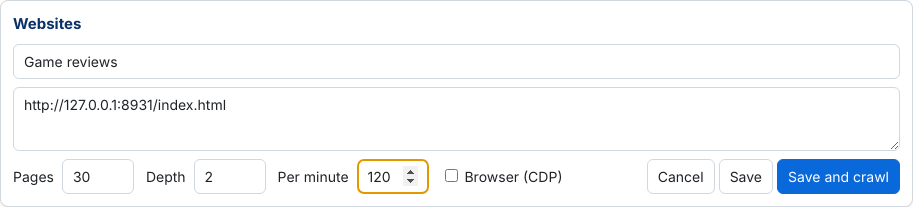
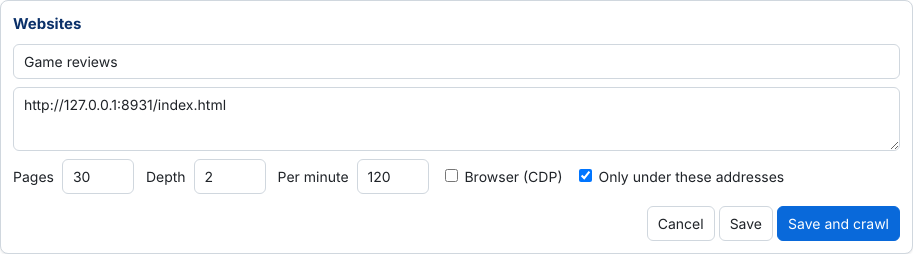
Crawler option to stay under the start addresses
The crawler already kept to the start sites (one host, other subdomains
excluded). "Only under these addresses" on a website also keeps it in
the start addresses' folders, like wget --no-parent: from
example.com/guides/ it follows /guides/... links only. Saved websites
get the new column on older databases.

Claude-Session: https://claude.ai/code/session_01K6iyxnxtYDs5kNr5qmfTjK

diff --git a/desktop/src/renderer/Websites.tsx b/desktop/src/renderer/Websites.tsx
@@ -9,9 +9,18 @@ type Draft = {
   max_depth: number;
   per_minute: number;
   use_browser: boolean;
+  only_under_start: boolean;
 };
 
-const NEW_SITE: Draft = { name: "", urls: "", max_pages: 50, max_depth: 2, per_minute: 20, use_browser: false };
+const NEW_SITE: Draft = {
+  name: "",
+  urls: "",
+  max_pages: 50,
+  max_depth: 2,
+  per_minute: 20,
+  use_browser: false,
+  only_under_start: false,
+};
 
 /**
  * Saved websites of a collection. Each can be crawled again: pages downloaded before are skipped
@@ -97,6 +106,7 @@ export function Websites({
             max_depth: website.max_depth,
             per_minute: website.per_minute,
             use_browser: website.use_browser,
+            only_under_start: website.only_under_start,
           }
         : defaults
           ? {
@@ -175,6 +185,14 @@ export function Websites({
             <label title="Load pages in the browser connected over CDP (its address is in Settings > Crawler), for sites that need JavaScript">
               <input type="checkbox" checked={draft.use_browser} onChange={(e) => set({ use_browser: e.target.checked })} /> Browser (CDP)
             </label>
+            <label title="Follow links only inside the folders of the addresses above: from example.com/guides/ only to example.com/guides/…, not the rest of the site. Other sites and subdomains are never followed either way.">
+              <input
+                type="checkbox"
+                checked={draft.only_under_start}
+                onChange={(e) => set({ only_under_start: e.target.checked })}
+              />{" "}
+              Only under these addresses
+            </label>
             <span className="buttons">
               <button type="button" onClick={() => setEditing(null)}>Cancel</button>
               <button type="button" onClick={(e) => save(e, false)} disabled={!draft.urls.trim()}>Save</button>
@@ -202,6 +220,7 @@ export function Websites({
               </div>
               <div className="muted">
                 {w.max_pages} new pages · depth {w.max_depth} · {w.per_minute}/min{w.use_browser && " · browser"}
+                {w.only_under_start && " · only under these addresses"}
                 <div>{w.last_crawled_at ? `Last crawled ${new Date(w.last_crawled_at).toLocaleString()}` : "Not crawled yet"}</div>
               </div>
               <div className="buttons">

diff --git a/desktop/src/renderer/api.ts b/desktop/src/renderer/api.ts
@@ -113,6 +113,8 @@ export type CrawlSettings = {
   max_depth: number;
   per_minute: number;
   use_browser: boolean;
+  /** Follow only links under the start addresses' folders, not the whole site. */
+  only_under_start: boolean;
 };
 
 /** Options left out come from the crawler settings (Settings > Crawler). */

diff --git a/engine/tests/test_web.py b/engine/tests/test_web.py
@@ -36,6 +36,12 @@ SITE = {
     "/c": page("Article C", ARTICLE.replace("Geralt", "Yennefer") + '<a href="/d">deeper</a>'),
     "/d": page("Article D", ARTICLE.replace("Geralt", "Dandelion")),
     "/private/x": page("Private", ARTICLE),
+    "/guides/": page(
+        "Guides",
+        '<a href="/guides/one">1</a> <a href="/guides/deep/two">2</a> <a href="/a">A</a>',
+    ),
+    "/guides/one": page("Guide One", ARTICLE.replace("Geralt", "Vesemir")),
+    "/guides/deep/two": page("Guide Two", ARTICLE.replace("Geralt", "Lambert")),
     "/robots.txt": "User-agent: *\nDisallow: /private/\n",
     "/js": "<html><head><title>Rendered</title></head><body><div id=app></div><script>"
     "document.getElementById('app').innerHTML = '<article><p>' + "
@@ -175,6 +181,18 @@ def test_crawl_follows_links_within_the_site(games, site):
     assert not {"/private/x", "/shot.png", "/d"} & set(Site.requests)
     assert job.skipped >= 2
     assert games.documents("games")[0]["source"].startswith(site)
+
+
+def test_only_under_the_start_address(games, site):
+    job = crawl(games, [f"{site}/guides/"], max_depth=2, only_under_start=True)
+    assert job.state == "done"
+    assert titles(games) == ["Guide One", "Guide Two"]
+    assert "/a" not in Site.requests
+
+
+def test_whole_site_from_a_folder_by_default(games, site):
+    crawl(games, [f"{site}/guides/"], max_depth=1)
+    assert titles(games) == ["Article A", "Guide One", "Guide Two"]
 
 
 def test_max_pages_and_robots_switch(games, site):
@@ -346,8 +364,13 @@ def test_saved_websites_api(client, site):
     website = saved.json()
     assert website["name"] == "127.0.0.1" and website["last_crawled_at"] is None
 
-    edited = client.put(f"/api/websites/{website['id']}", json={**body, "name": "Witcher fans"})
+    assert website["only_under_start"] is False
+    edited = client.put(
+        f"/api/websites/{website['id']}",
+        json={**body, "name": "Witcher fans", "only_under_start": True},
+    )
     assert edited.json()["name"] == "Witcher fans" and edited.json()["max_pages"] == 2
+    assert edited.json()["only_under_start"] is True
     listed = client.get("/api/collections/games/websites").json()["data"]
     assert [w["name"] for w in listed] == ["Witcher fans"]
 
@@ -411,3 +434,26 @@ def test_outcome_of_each_start_address(games, site):
     assert (job.known, job.indexed, job.skipped, job.failed) == (1, 1, 2, 1)
     # Next time the short home page is still reported as skipped, not as already there.
     assert crawl(games, [f"{site}/"], max_depth=0).outcomes == {f"{site}/": "skipped"}
+
+
+def test_older_database_gets_the_new_website_column(tmp_path):
+    import sqlite3
+
+    from engine.rag.embeddings import HashEmbedder
+    from engine.rag.store import KnowledgeStore
+    from engine.web.sites import WebsiteStore
+
+    path = tmp_path / "knowledge.db"
+    old = sqlite3.connect(path)
+    old.executescript(
+        "CREATE TABLE websites (id INTEGER PRIMARY KEY, collection TEXT NOT NULL, name TEXT NOT"
+        " NULL, urls TEXT NOT NULL, max_pages INTEGER NOT NULL, max_depth INTEGER NOT NULL,"
+        " per_minute REAL NOT NULL, use_browser INTEGER NOT NULL, respect_robots INTEGER NOT"
+        " NULL, created_at TEXT NOT NULL, last_crawled_at TEXT);"
+        "INSERT INTO websites VALUES (1, 'games', 'old', '[\"https://a.example/\"]', 5, 1, 20,"
+        " 0, 1, '2026-01-01', NULL);"
+    )
+    old.commit()
+    old.close()
+    store = KnowledgeStore(path, HashEmbedder())
+    assert WebsiteStore(store).website(1).only_under_start is False

diff --git a/engine/src/engine/web/crawler.py b/engine/src/engine/web/crawler.py
@@ -1,5 +1,9 @@
 """Crawls websites into a collection: follows links within each start site, politely.
 
+A site is one host (www. aside): links to other sites and to other subdomains are never
+followed. With only_under_start, links are also kept inside the folders of the start addresses,
+like wget --no-parent: from https://example.com/guides/ the crawl stays under /guides/.
+
 Pages downloaded by earlier crawls into the same collection are not downloaded again: the crawl
 walks through them using their remembered links and spends its page budget only on new pages,
 so repeated crawls of a site gradually cover all of it.
@@ -56,6 +60,8 @@ class CrawlOptions:
     use_browser: bool = False  # fetch through the browser at cdp_url instead of plain HTTP
     # Read robots.txt; it is not read either way when the crawler settings turn it off.
     respect_robots: bool = True
+    # Follow only links under the start addresses' folders, not the whole site.
+    only_under_start: bool = False
 
 
 @dataclass
@@ -120,6 +126,18 @@ def links(page: Page) -> list[str]:
     return found
 
 
+def folder(url: str) -> str:
+    """The folder a start address is in: its path up to the last slash."""
+    path = urlsplit(url).path or "/"
+    return path[: path.rfind("/") + 1]
+
+
+def under(url: str, folders: dict[str, set[str]]) -> bool:
+    """Whether a URL is in one of its site's start folders."""
+    path = urlsplit(url).path or "/"
+    return any(path.startswith(f) for f in folders.get(site(url), ()))
+
+
 def worth_fetching(url: str) -> bool:
     return PurePosixPath(urlsplit(url).path).suffix.lower() not in SKIP_SUFFIXES
 
@@ -161,6 +179,9 @@ class Crawler:
 
         robots = Robots(robots_text, current.user_agent)
         start_sites = {site(u) for u in options.urls}
+        folders: dict[str, set[str]] = {}
+        for u in options.urls:
+            folders.setdefault(site(u), set()).add(folder(u))
         queue = deque((normalize(u), 0) for u in options.urls)
         seen = {url for url, _ in queue}
         attempts: dict[str, int] = {}
@@ -169,7 +190,12 @@ class Crawler:
             if depth >= options.max_depth:
                 return
             for link in found:
-                if link not in seen and site(link) in start_sites and worth_fetching(link):
+                if (
+                    link not in seen
+                    and site(link) in start_sites
+                    and (not options.only_under_start or under(link, folders))
+                    and worth_fetching(link)
+                ):
                     seen.add(link)
                     queue.append((link, depth + 1))
 

diff --git a/engine/src/engine/web/sites.py b/engine/src/engine/web/sites.py
@@ -21,6 +21,7 @@ CREATE TABLE IF NOT EXISTS websites (
     per_minute REAL NOT NULL,
     use_browser INTEGER NOT NULL,
     respect_robots INTEGER NOT NULL,
+    only_under_start INTEGER NOT NULL DEFAULT 0,
     created_at TEXT NOT NULL,
     last_crawled_at TEXT
 );
@@ -48,6 +49,7 @@ class Website:
     per_minute: float = 20
     use_browser: bool = False
     respect_robots: bool = True
+    only_under_start: bool = False
     id: int | None = None
     collection: str = ""
     created_at: str | None = None
@@ -57,7 +59,17 @@ class Website:
         return asdict(self)
 
 
-FIELDS = ("name", "max_pages", "max_depth", "per_minute", "use_browser", "respect_robots")
+FIELDS = (
+    "name",
+    "max_pages",
+    "max_depth",
+    "per_minute",
+    "use_browser",
+    "respect_robots",
+    "only_under_start",
+)
+# Columns added after the first release, with their definitions, for older databases.
+ADDED_COLUMNS = {"only_under_start": "INTEGER NOT NULL DEFAULT 0"}
 
 
 class WebsiteStore:
@@ -65,6 +77,12 @@ class WebsiteStore:
         self.store = store
         self._lock = store._lock
         self.db.executescript(SCHEMA)
+        columns = {r["name"] for r in self.db.execute("PRAGMA table_info(websites)")}
+        with self._lock:
+            for name, definition in ADDED_COLUMNS.items():
+                if name not in columns:
+                    self.db.execute(f"ALTER TABLE websites ADD COLUMN {name} {definition}")
+            self.db.commit()
 
     @property
     def db(self):
@@ -127,6 +145,7 @@ class WebsiteStore:
         data["urls"] = json.loads(data["urls"])
         data["use_browser"] = bool(data["use_browser"])
         data["respect_robots"] = bool(data["respect_robots"])
+        data["only_under_start"] = bool(data["only_under_start"])
         return Website(**data)
 
     # Pages already downloaded

diff --git a/engine/src/engine/api/web.py b/engine/src/engine/api/web.py
@@ -25,6 +25,8 @@ class CrawlRequest(BaseModel):
     per_minute: float | None = Field(None, gt=0, le=120)
     use_browser: bool | None = None
     respect_robots: bool = True
+    # Follow only links under the start addresses' folders, not the whole site.
+    only_under_start: bool = False
 
     @field_validator("urls")
     @classmethod
@@ -77,6 +79,7 @@ def options(website: Website) -> CrawlOptions:
         per_minute=website.per_minute,
         use_browser=website.use_browser,
         respect_robots=website.respect_robots,
+        only_under_start=website.only_under_start,
     )
 
 

diff --git a/docs/api.md b/docs/api.md
@@ -231,9 +231,11 @@ PyPI (downloaded once into `<data dir>/tools/`) or from `TINYLM_LLAMA_CPP_DIR`.
 `POST /api/collections/{name}/crawl` (or `make crawl COLLECTION=games URLS="https://site/ ..."`,
 or the Data tab) adds pages of websites to a collection in the background:
 
-- Starts from the given addresses and follows links **within the same sites** up to `max_depth`
-  hops, until `max_pages` **new** pages are downloaded. Images, video, archives, scripts and styles are
-  never requested. Pages with little text (listings, navigation) are followed but not indexed;
+- Starts from the given addresses and follows links **within the same sites** (the same host,
+  `www.` aside; other subdomains are other sites) up to `max_depth` hops; with
+  `only_under_start: true`, only links under the start addresses' folders (from
+  `https://example.com/guides/`, only `/guides/…`), until `max_pages` **new** pages are
+  downloaded. Images, video, archives, scripts and styles are never requested. Pages with little text (listings, navigation) are followed but not indexed;
   web pages keep only their main text (menus and footers are dropped); PDFs are indexed too.
 - **Repeated crawls continue where the last one stopped.** Every downloaded page is remembered
   in the collection with its links. A later crawl into the same collection walks through those
@@ -264,7 +266,7 @@ or the Data tab) adds pages of websites to a collection in the background:
 
 | Method | Path | Notes |
 |---|---|---|
-| POST | `/api/collections/{name}/crawl` | One-off crawl: `{"urls": [...], "max_pages": 50, "max_depth": 2, "per_minute": 20, "use_browser": false, "respect_robots": true}` |
+| POST | `/api/collections/{name}/crawl` | One-off crawl: `{"urls": [...], "max_pages": 50, "max_depth": 2, "per_minute": 20, "use_browser": false, "respect_robots": true, "only_under_start": false}` |
 | GET | `/api/collections/{name}/websites` | Saved websites of a collection, with `last_crawled_at` |
 | POST | `/api/collections/{name}/websites` | Saves a website: the crawl fields above plus an optional `name` (defaults to the host) |
 | PUT | `/api/websites/{id}` | Changes a saved website (same body) |

diff --git a/docs/user-guide.md b/docs/user-guide.md
@@ -184,6 +184,12 @@ A **collection** is a set of documents that chat can answer from. Create one on 
     walked through without downloading them again and are not counted, so every run continues
     where the last one stopped until the whole site is in the collection.
   - *Depth* is how many links away from the start addresses to go.
+  - The crawl never leaves the start sites: links to other sites, and to other subdomains of
+    the same site (`auction.example.com` from `example.com`), are not followed.
+    *Only under these addresses* keeps it to the start addresses' folders as well: from
+    `https://example.com/guides/` it follows `/guides/…` links but not the rest of the site.
+    The folder is the address up to its last `/`, so `https://example.com/guides` (no slash at
+    the end) means the whole site.
   - *Per minute* limits requests to each site. Keep it low (the default is 20) so the site is
     not overloaded and does not ban you.
   - *Browser (CDP)* loads pages in a real Chrome or Chromium, for sites that need JavaScript or
